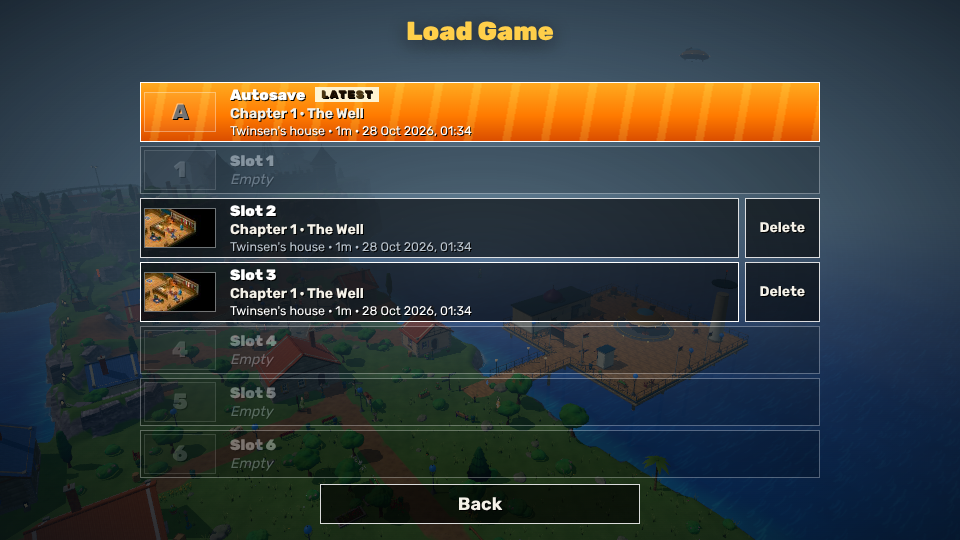
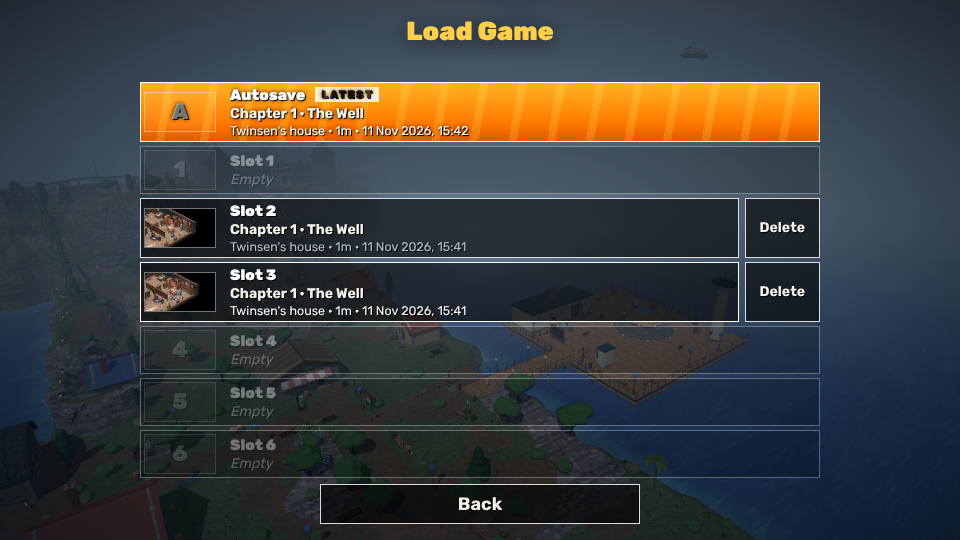
Campaign thread: the bypass cocks 0.85 m apart; the chapter 2 suite stands him before the thing he handles
Claude-Session: https://claude.ai/code/session_012GFEakZyL3XxjZKHRj5dFg

diff --git a/lba3/src/game/pumproom.js b/lba3/src/game/pumproom.js
@@ -130,10 +130,10 @@ export function buildPumpRoom(scene, physics) {
   const riser = (x, y, m, r) => { k.add(cyl(r, r, y, 10), m, x, y / 2, PZ); k.add(sphere(r * 1.25, 10, 8), m, x, y, PZ); k.add(torus(r * 1.3, 0.02, 6, 12), brass, x, 0.4, PZ, 0, { rx: Math.PI / 2 }); B.ccol(x, PZ, r + 0.04, y, { noStand: true }); };
   const UP = { x: -1.7, y: 2.35, r: 0.11 }, LO = { x: -0.5, y: 1.6, r: 0.11 }, CU = { x: 0.7, y: 1.05, r: 0.085 };   // (the copper one at the height of a hand laid on it; the old ones are felt on their risers at 1.48 m: story/reach.js)
   riser(UP.x, UP.y, old, UP.r); riser(LO.x, LO.y, old2, LO.r);
-  k.add(cyl(UP.r, UP.r, 4.45 - UP.x, 10), old, (4.45 + UP.x) / 2, UP.y, PZ, 0, { rz: Math.PI / 2 });
+  k.add(cyl(UP.r, UP.r, 4.35 - UP.x, 10), old, (4.35 + UP.x) / 2, UP.y, PZ, 0, { rz: Math.PI / 2 });
   // (the lower run and the copper one move: Zoé's knocks, the copper's shiver — each its own mesh)
   const mk = (geo, m, x, y, z, rz = 0) => { const o = new THREE.Mesh(geo, m); o.position.set(x, y, z); o.rotation.z = rz; o.castShadow = true; B.group.add(o); return o; };
-  const lowerRun = mk(new THREE.CylinderGeometry(LO.r, LO.r, 5.1 - LO.x, 10), old2, (5.1 + LO.x) / 2, LO.y, PZ, Math.PI / 2);
+  const lowerRun = mk(new THREE.CylinderGeometry(LO.r, LO.r, 5.2 - LO.x, 10), old2, (5.2 + LO.x) / 2, LO.y, PZ, Math.PI / 2);
   const copper = new THREE.Group(); copper.userData.keep = true; B.group.add(copper);
   const cm = (geo, x, y, z, rz = 0, rx = 0) => { const o = new THREE.Mesh(geo, cu); o.position.set(x, y, z); o.rotation.set(rx, 0, rz); o.castShadow = true; copper.add(o); };
   cm(new THREE.CylinderGeometry(CU.r, CU.r, CU.y, 10), CU.x, CU.y / 2, PZ);
@@ -162,10 +162,10 @@ export function buildPumpRoom(scene, physics) {
     // (his hand on the handle's bar, 0.15 m along it from the hub)
     return { ...touch(B.cx + x + 0.15, B.cz + PZ + 0.24, Math.PI, 'tinker'), open: false, set(b) { this.open = !!b; piv.rotation.z = b ? -Math.PI / 2 : 0; } };
   };
-  const cocks = { upper: cock(4.45, UP.y, old, UP.r), lower: cock(5.1, LO.y, old2, LO.r) };
+  const cocks = { upper: cock(4.35, UP.y, old, UP.r), lower: cock(5.2, LO.y, old2, LO.r) };   // (0.85 m apart: each has its own place to stand)
   // the copper pipe's own way: up from its run into the lower leg under the cock (a bolted tee), and on to the pump
-  k.add(cyl(CU.r, CU.r, 0.5, 10), cu, 5.1, 0.84, PZ + 0.1, 0, { rx: 0.35 });
-  k.add(rbox(0.26, 0.2, 0.26, 0.03), brass, 5.1, 0.72, PZ + 0.04);
+  k.add(cyl(CU.r, CU.r, 0.5, 10), cu, 5.2, 0.84, PZ + 0.1, 0, { rx: 0.35 });
+  k.add(rbox(0.26, 0.2, 0.26, 0.03), brass, 5.2, 0.72, PZ + 0.04);
   // the booster pump on its bed: a casing, a ribbed motor, a flywheel; the maker's plate on the casing's west end, its
   // gauge and paper strip on the east end
   const PX = 4.35, PZ2 = 0.75;
